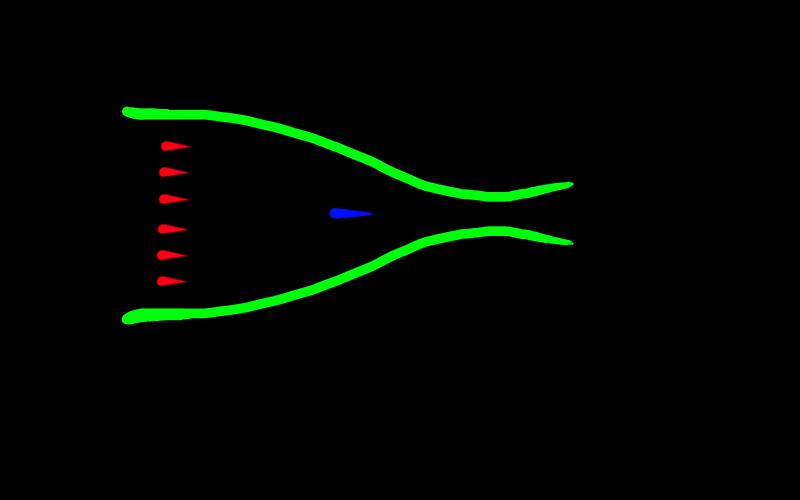
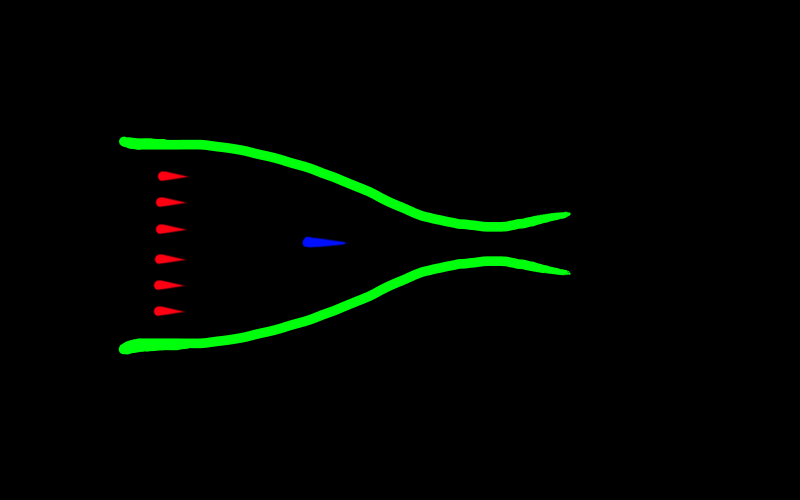
modifying demo files

diff --git a/demo/jet.py b/demo/jet.py
@@ -8,50 +8,54 @@ import numpy as np
 from fast_flow import ElectrostaticForceHandler, FlowSolver, Boundry
 from fast_flow.core.renderer import Renderer
 
-TOTAL_TIME = 5.0
+TOTAL_TIME = 1
 P_CHARGE = 40000
-N_ChARGE_MULTIPLIER = -4
+N_ChARGE_MULTIPLIER = -1
 
 if __name__ == '__main__':
-    img = cv2.imread('./res/jet2.png')
-    img = cv2.flip(img, 0)
-    ny, nx = img.shape[0], img.shape[1]
-    print(f'Loaded image: dims=({ny}, {nx})')
 
-    # channel 2 (red) = cow -> +charge; channel 0 (blue) =
-    # rooster -> -charge
-    handler = ElectrostaticForceHandler(
-        img, layermap={0: P_CHARGE, 2: P_CHARGE * N_ChARGE_MULTIPLIER})
-    renderer = Renderer("jet2", 120, ny, nx)
-    solver = FlowSolver(img=img, nit=50, rho=1.0, nu=0.05,
-                        boundary=Boundry.THROUGHFLOW,
-                        lx=8.0, ly=5.0,
-                        force_handlers=[handler],
-                        renderer=renderer)
+    for jet_id in range(1, 11):
+        img = cv2.imread(f'./res/jet{jet_id}.png')
+        img = cv2.flip(img, 0)
+        ny, nx = img.shape[0], img.shape[1]
+        print(f'Loaded image: dims=({ny}, {nx})')
 
-    renderer.run()
-    t0 = time.perf_counter()
-    steps = solver.run(TOTAL_TIME)
-    wall = time.perf_counter() - t0
+        # channel 2 (red) = cow -> +charge; channel 0 (blue) =
+        # rooster -> -charge
+        handler = ElectrostaticForceHandler(
+            img, layermap={0: P_CHARGE, 2: P_CHARGE * N_ChARGE_MULTIPLIER})
+        renderer = Renderer("jet", 120*2, ny, nx, record=True)
+        solver = FlowSolver(img=img, nit=50, rho=1.0, nu=0.05,
+                            boundary=Boundry.NONE,
+                            lx=8.0, ly=5.0,
+                            force_handlers=[handler],
+                            renderer=renderer)
 
-    u = solver.horizontal_velocity
-    v = solver.vertical_velocity
-    speed = np.hypot(u, v)
-    solid = solver.solid.astype(bool)
-    density = handler.ion_density()
-    print('----------- RESULTS ------------')
-    print(f"steps taken: {steps}\n\tsimulated time: {solver.time:.6f}s")
-    print(f"wall-clock runtime: {wall:.2f}s\n\t"
-          f"iterations per second: {steps / wall:.1f}")
-    print(f"finite: {np.isfinite(u).all() and np.isfinite(v).all()}\n\t"
-          f"max speed outside obstacle: {speed[~solid].max():.3f}\n\t"
-          f"max speed inside obstacle: {speed[solid].max():.3g}")
-    print(f"ion density: total {density.sum():.1f}, "
-          f"max {density.max():.3f}")
+        renderer.run()
+        t0 = time.perf_counter()
+        steps = solver.run(TOTAL_TIME)
+        wall = time.perf_counter() - t0
 
-    out_dir = os.path.join(
-        os.path.dirname(os.path.abspath(__file__)), 'out')
-    os.makedirs(out_dir, exist_ok=True)
-    out = os.path.join(out_dir, 'jet_velocity_1.png')
-    renderer.save(out)
-    print(f"saved {out}")
+        u = solver.horizontal_velocity
+        v = solver.vertical_velocity
+        speed = np.hypot(u[:, -1], v[:, -1])
+        solid = solver.solid.astype(bool)[:, -1]
+        density = handler.ion_density()
+        force = handler.solid_forces()
+        print('----------- RESULTS ------------')
+        print(f"steps taken: {steps}\n\tsimulated time: {solver.time:.6f}s")
+        print(f"wall-clock runtime: {wall:.2f}s\n\t"
+              f"iterations per second: {steps / wall:.1f}")
+        print(f"finite: {np.isfinite(u).all() and np.isfinite(v).all()}\n\t"
+              f"avg RHS exit speed: {speed[~solid].mean():.10f}\n\t")
+        print(f"ion density: total {density.sum():.1f}, "
+              f"max {density.max():.3f}")
+        print(f"Net forces (x,y) = {force['net']}")
+
+        out_dir = os.path.join(
+            os.path.dirname(os.path.abspath(__file__)), 'out/jet')
+        os.makedirs(out_dir, exist_ok=True)
+        out = os.path.join(out_dir, f'jet_velocity_{jet_id}.png')
+        renderer.save(out)
+        renderer.save_video(os.path.join(out_dir, f'/jet_velocity_{jet_id}.mp4'), 30)
+        print(f"saved {out}")

diff --git a/demo/throughflow_cow_cock.py b/demo/throughflow_cow_cock.py
@@ -6,7 +6,7 @@ import matplotlib.pyplot as plt
 import numpy as np
 import cv2
 
-from fast_flow import FlowSolver
+from fast_flow import FlowSolver, Boundry
 from fast_flow.core.renderer import Renderer
 
 
@@ -14,13 +14,14 @@ def parse_args():
     p = argparse.ArgumentParser(description=__doc__)
     p.add_argument("--lx", type=float, default=5.0)
     p.add_argument("--ly", type=float, default=3.0)
-    p.add_argument("--inflow", type=float, default=2.0)
+    p.add_argument("--inflow", type=float, default=20.0)
     p.add_argument("--nu", type=float, default=0.05)
-    p.add_argument("--fps", type=int, default=120,
+    p.add_argument("--fps", type=int, default=120*4,
                    help="renderer frames per simulated second")
     p.add_argument("--total-time", type=float, default=1.0,
                    help="simulated seconds to advance "
                         "(default 1.0 = 10000 steps x 0.0001)")
+    p.add_argument("--file", type=str, default="./res/cow.png")
     p.add_argument("--out", default=None)
     args = p.parse_args()
     return args
@@ -28,13 +29,13 @@ def parse_args():
 
 if __name__ == '__main__':
     args = parse_args()
-    img = cv2.imread("./res/cow-cock.png")
+    img = cv2.imread(args.file)
     img = cv2.flip(img, 0)
 
     print(f'Loaded image: dims=({img.shape[0]}, {img.shape[1]})')
-    renderer = Renderer("ehd_cow_cock", args.fps, img.shape[0], img.shape[1])
+    renderer = Renderer("ehd_cow_cock", args.fps, img.shape[0], img.shape[1], record=True)
     solver = FlowSolver(img=img, nit=50, nu=args.nu,
-                        boundary="throughflow",
+                        boundary=Boundry.THROUGHFLOW,
                         inflow_velocity=args.inflow,
                         lx=args.lx, ly=args.ly,
                         renderer = renderer)
@@ -79,8 +80,10 @@ if __name__ == '__main__':
                  f'nx={img.shape[1]}, inflow={args.inflow:g})')
     plt.tight_layout()
 
+    filename = args.file.rsplit('/', 1)[-1]
     out = args.out or os.path.join(
         os.path.dirname(os.path.abspath(__file__)),
-        'out/throughflow_cow_cock.png')
+        f'out/throughflow_{filename}')
+    renderer.save_vidio(f'out/throughflow_{filename.split(".", 1)[0]}.mp4', 30)
     fig.savefig(out)
     print(f"saved {out}")

diff --git a/src/fast_flow/solver.py b/src/fast_flow/solver.py
@@ -26,19 +26,6 @@ class Boundry(Enum):
 class ForceHandler:
     pass
 
-
-class ConstantVelocityForceHandler(ForceHandler):
-    def __init__(self,
-                 direction: Direction,
-                 velocity: float):
-        self._direction = direction
-        self._velocity = velocity
-
-    def _set_solver(self, solver: FlowSolverCore):
-        self._handler = ConstantVelocityForceHandlerCore(
-            solver, self._direction.value, self._velocity)
-
-
 class ElectrostaticForceHandler(ForceHandler):
     """Electrostatic forcing from the charged regions of an image.
 

diff --git a/src/fast_flow/__init__.py b/src/fast_flow/__init__.py
@@ -2,13 +2,12 @@
 
 __version__ = "0.2.0"
 
-from .solver import FlowSolver, Direction, Boundry, ForceHandler, ConstantVelocityForceHandler
+from .solver import FlowSolver, Direction, Boundry, ForceHandler
 from .solver import ElectrostaticForceHandler
 
 __all__ = ["FlowSolver",
            "Direction",
            "Boundry",
            "ForceHandler",
-           "ConstantVelocityForceHandler",
            "ElectrostaticForceHandler",
            "__version__"]
